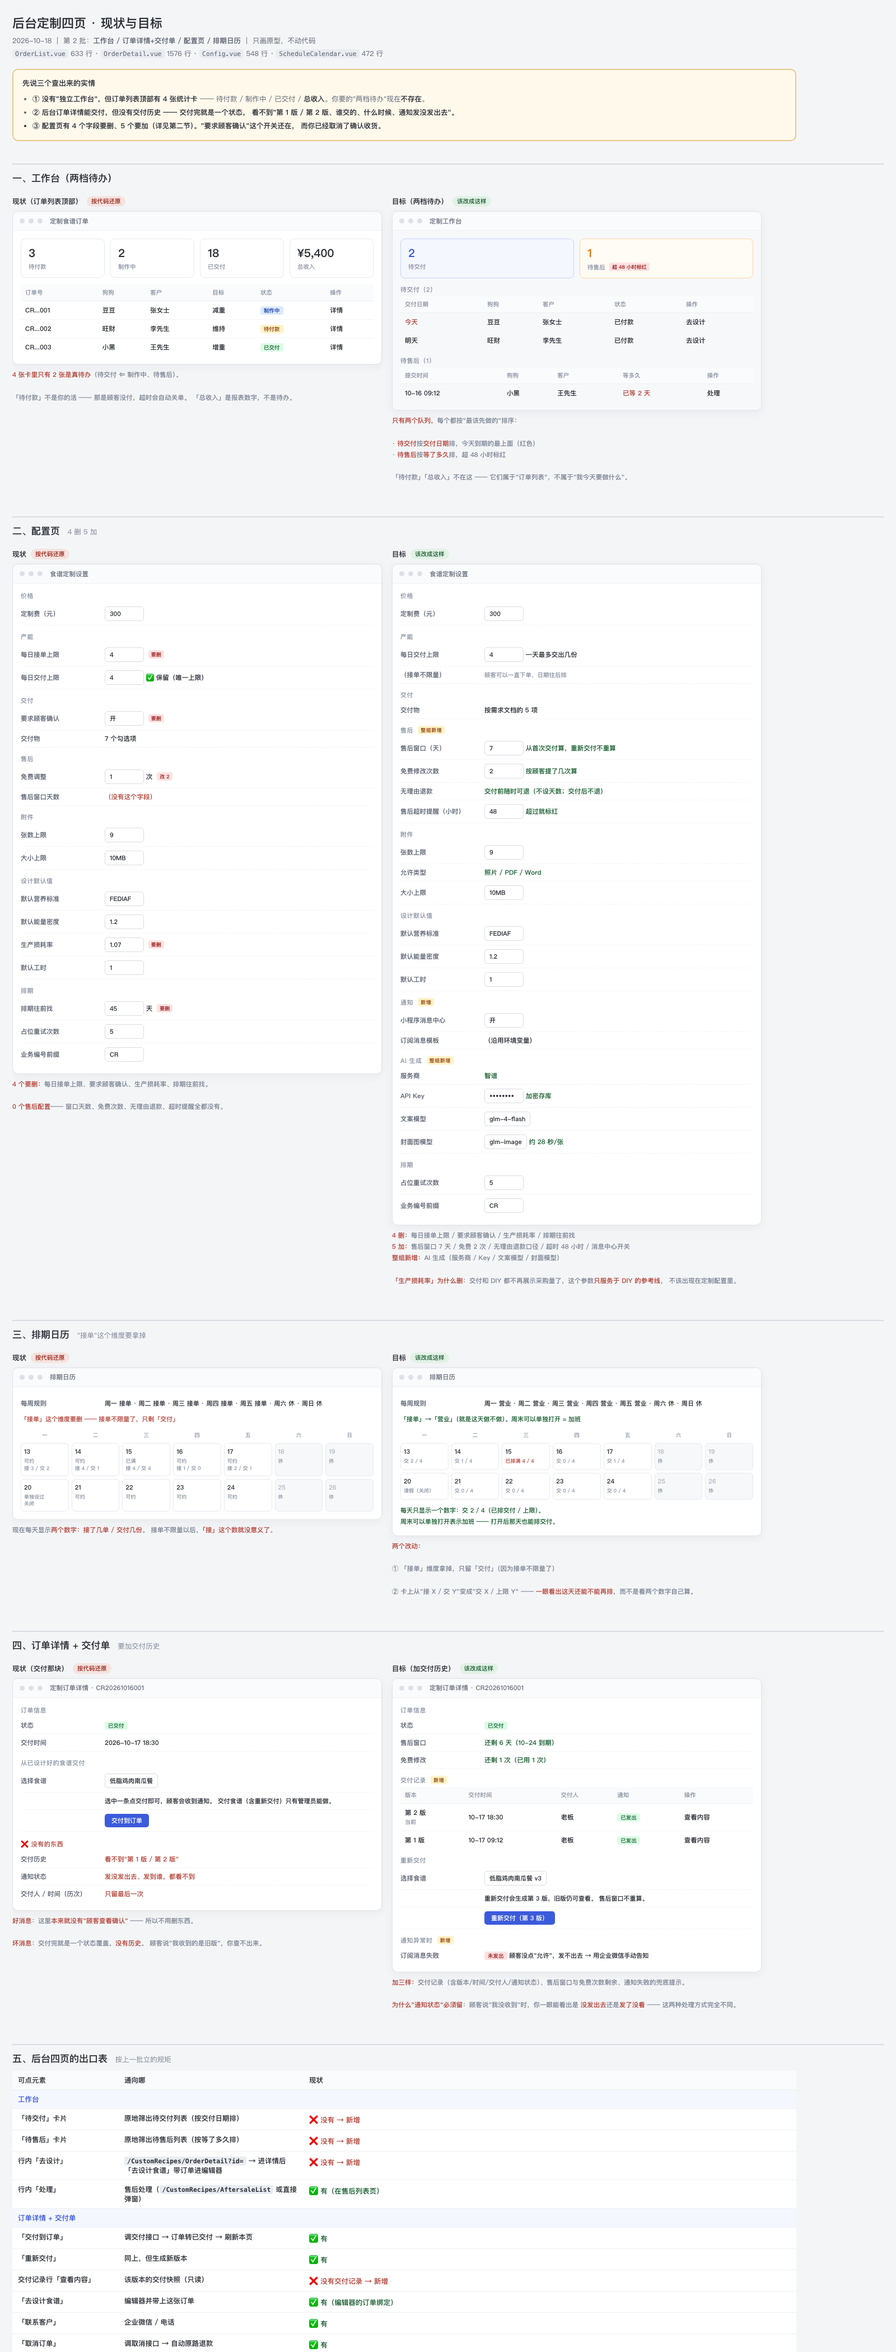
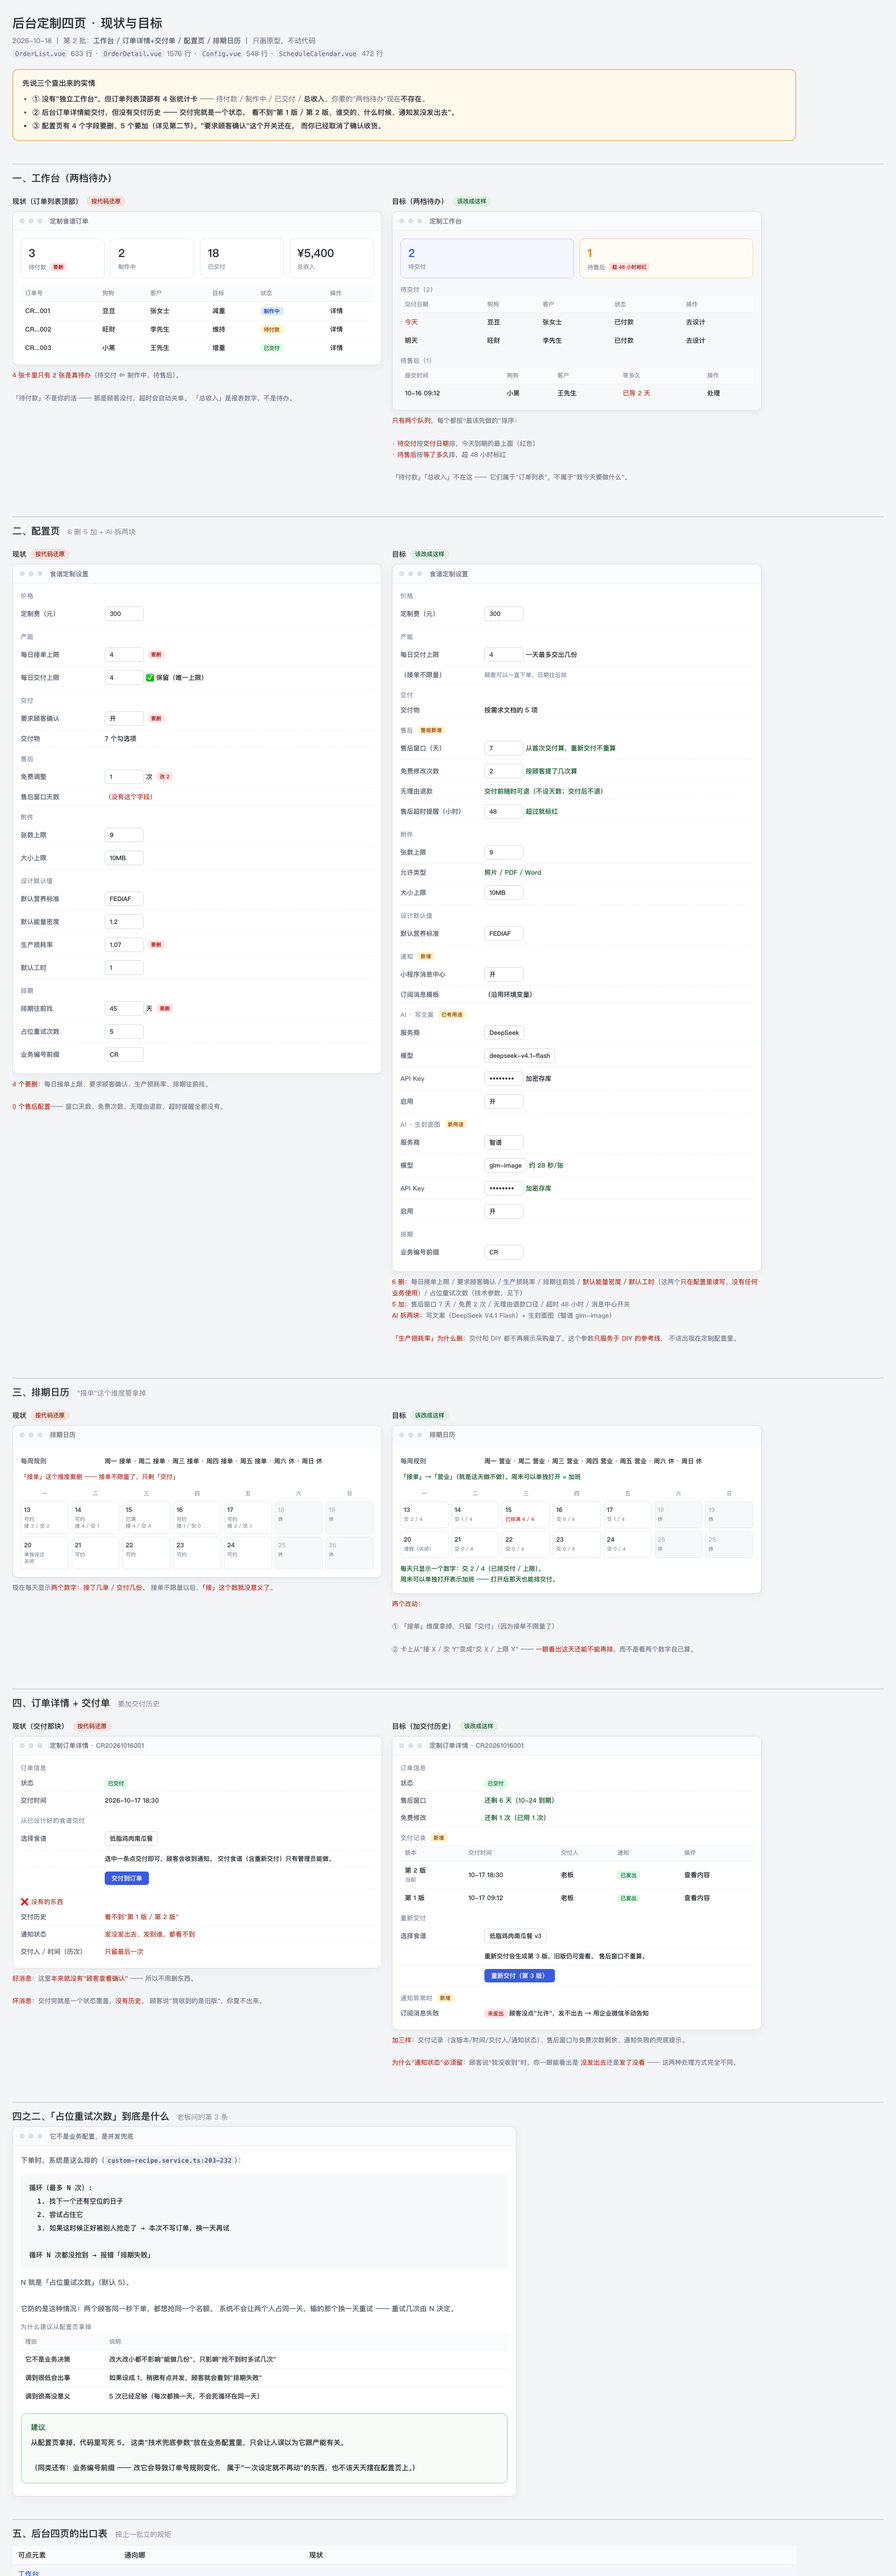
docs: 后台四页按老板 3 条更新
## ① 待付款卡删掉

工作台只留待交付 / 待售后两档。

## ② 配置页再删两个 + AI 拆两块

**删「默认能量密度」「默认工时」** —— 查了，这两个字段
**只在配置里读写，没有任何业务代码使用**（grep 全后端，除了 config.service 自己，0 处引用）。

**AI 拆成两块：**
- 写文案 → **DeepSeek V4.1 Flash**
- 生封面图 → **智谱 glm-image**

查了 `AgentProviderConfig` 表：`purpose` 是**自由字符串**、`@@unique([purpose, provider])`。
现有 4 条记录里**已经有 `RECIPE_COPYWRITING`**（写文案，现在用的 deepseek-v4-pro）。

**所以架构已经支持** —— 加一种用途只需加一条记录，**不用改表**：
- 文案：改 `RECIPE_COPYWRITING` 的 model
- 生图：新增一条 `RECIPE_COVER_IMAGE`，provider=ZHIPU

## ③ 解释了「占位重试次数」

它不是业务配置，是**并发兜底**：两个顾客同一秒抢同一个名额时，
输的那个换一天重试，最多重试几次。

建议**从配置页拿掉，写死 5**：
- 调低会出事（设 1 的话稍有并发就"排期失败"）
- 调高没意义（5 次够了）
- 它在业务配置里会让人误以为跟产能有关

顺带指出「业务编号前缀」也属于同类（一次设定就不再动）。

## 配置页现在是 6 删 5 加 + AI 两组

diff --git a/docs/prototypes/2026-10-18-admin-pages-refactor.html b/docs/prototypes/2026-10-18-admin-pages-refactor.html
@@ -123,7 +123,7 @@
       <div class="win__body">
 
         <div class="stat-row">
-          <div class="stat"><div class="stat__v">3</div><div class="stat__l">待付款</div></div>
+          <div class="stat"><div class="stat__v">3</div><div class="stat__l">待付款 <span class="mark mark--fix">要删</span></div></div>
           <div class="stat"><div class="stat__v">2</div><div class="stat__l">制作中</div></div>
           <div class="stat"><div class="stat__v">18</div><div class="stat__l">已交付</div></div>
           <div class="stat"><div class="stat__v">¥5,400</div><div class="stat__l">总收入</div></div>
@@ -201,7 +201,7 @@
 </div>
 
 <!-- ================================================================ -->
-<h2>二、配置页 <span>4 删 5 加</span></h2>
+<h2>二、配置页 <span>6 删 5 加 + AI 拆两块</span></h2>
 
 <div class="row">
 
@@ -279,31 +279,36 @@
 
         <div class="grp">设计默认值</div>
         <div class="field"><span class="field__l">默认营养标准</span><span class="field__v"><span class="input">FEDIAF</span></span></div>
-        <div class="field"><span class="field__l">默认能量密度</span><span class="field__v"><span class="input">1.2</span></span></div>
-        <div class="field"><span class="field__l">默认工时</span><span class="field__v"><span class="input">1</span></span></div>
 
         <div class="grp">通知 <span class="mark mark--add">新增</span></div>
         <div class="field"><span class="field__l">小程序消息中心</span><span class="field__v field__v--new"><span class="input">开</span></span></div>
         <div class="field"><span class="field__l">订阅消息模板</span><span class="field__v">（沿用环境变量）</span></div>
 
-        <div class="grp">AI 生成 <span class="mark mark--add">整组新增</span></div>
-        <div class="field"><span class="field__l">服务商</span><span class="field__v field__v--new">智谱</span></div>
+        <div class="grp">AI · 写文案 <span class="mark mark--add">已有用途</span></div>
+        <div class="field"><span class="field__l">服务商</span><span class="field__v"><span class="input">DeepSeek</span></span></div>
+        <div class="field"><span class="field__l">模型</span><span class="field__v field__v--new"><span class="input">deepseek-v4.1-flash</span></span></div>
+        <div class="field"><span class="field__l">API Key</span><span class="field__v"><span class="input">••••••••</span> 加密存库</span></div>
+        <div class="field"><span class="field__l">启用</span><span class="field__v"><span class="input">开</span></span></div>
+
+        <div class="grp">AI · 生封面图 <span class="mark mark--add">新用途</span></div>
+        <div class="field"><span class="field__l">服务商</span><span class="field__v field__v--new"><span class="input">智谱</span></span></div>
+        <div class="field"><span class="field__l">模型</span><span class="field__v field__v--new"><span class="input">glm-image</span> 约 28 秒/张</span></div>
         <div class="field"><span class="field__l">API Key</span><span class="field__v field__v--new"><span class="input">••••••••</span> 加密存库</span></div>
-        <div class="field"><span class="field__l">文案模型</span><span class="field__v field__v--new"><span class="input">glm-4-flash</span></span></div>
-        <div class="field"><span class="field__l">封面图模型</span><span class="field__v field__v--new"><span class="input">glm-image</span> 约 28 秒/张</span></div>
+        <div class="field"><span class="field__l">启用</span><span class="field__v field__v--new"><span class="input">开</span></span></div>
 
         <div class="grp">排期</div>
-        <div class="field"><span class="field__l">占位重试次数</span><span class="field__v"><span class="input">5</span></span></div>
         <div class="field"><span class="field__l">业务编号前缀</span><span class="field__v"><span class="input">CR</span></span></div>
 
       </div>
     </div>
     <div class="col__note">
-      <b>4 删：</b>每日接单上限 / 要求顾客确认 / 生产损耗率 / 排期往前找
+      <b>6 删：</b>每日接单上限 / 要求顾客确认 / 生产损耗率 / 排期往前找 /
+      <b>默认能量密度 / 默认工时</b>（这两个<b>只在配置里读写、没有任何业务使用</b>）/
+      占位重试次数（技术参数，见下）
       <br />
       <b>5 加：</b>售后窗口 7 天 / 免费 2 次 / 无理由退款口径 / 超时 48 小时 / 消息中心开关
       <br />
-      <b>整组新增：</b>AI 生成（服务商 / Key / 文案模型 / 封面模型）
+      <b>AI 拆两块：</b>写文案（DeepSeek V4.1 Flash）+ 生封面图（智谱 glm-image）
       <br /><br />
       <b>「生产损耗率」为什么删</b>：交付和 DIY 都不再展示采购量了，这个参数<b>只服务于 DIY 的参考线</b>，
       不该出现在定制配置里。
@@ -538,6 +543,54 @@
 </div>
 
 <!-- ================================================================ -->
+<h2>四之二、「占位重试次数」到底是什么 <span>老板问的第 3 条</span></h2>
+
+<div class="win" style="max-width:900px">
+  <div class="win__bar"><span class="win__dot"></span><span class="win__dot"></span><span class="win__dot"></span><span class="win__t">它不是业务配置，是并发兜底</span></div>
+  <div class="win__body">
+
+    <div class="sub" style="font-size:12.5px;line-height:1.9">
+      下单时，系统是这么排的（<code>custom-recipe.service.ts:203-232</code>）：
+    </div>
+
+    <div style="background:#F7F8FA;border-radius:8px;padding:13px 15px;margin:12px 0;font-size:12px;line-height:2;font-family:ui-monospace,Menlo,monospace">
+      循环（最多 <b>N</b> 次）:<br />
+      &nbsp;&nbsp;1. 找下一个还有空位的日子<br />
+      &nbsp;&nbsp;2. 尝试占住它<br />
+      &nbsp;&nbsp;3. <b>如果这时候正好被别人抢走了</b> → 本次不写订单，换一天再试<br />
+      <br />
+      循环 N 次都没抢到 → 报错「排期失败」
+    </div>
+
+    <div class="sub" style="font-size:12.5px;line-height:1.9">
+      <b>N 就是「占位重试次数」</b>（默认 5）。
+      <br /><br />
+      它防的是这种情况：<b>两个顾客同一秒下单，都想抢同一个名额</b>。
+      系统不会让两个人占同一天，输的那个换一天重试 —— 重试几次由 N 决定。
+    </div>
+
+    <div class="grp">为什么建议从配置页拿掉</div>
+    <table class="tbl">
+      <tr><th style="width:150px">理由</th><th>说明</th></tr>
+      <tr><td>它不是业务决策</td><td>改大改小都不影响"能做几份"，只影响"抢不到时多试几次"</td></tr>
+      <tr><td>调到很低会出事</td><td>如果设成 1，稍微有点并发，顾客就会看到"排期失败"</td></tr>
+      <tr><td>调到很高没意义</td><td>5 次已经足够（每次都换一天，不会死循环在同一天）</td></tr>
+    </table>
+
+    <div class="banner" style="margin-top:14px;border-color:#CFE3D5;background:#F7FBF8">
+      <div class="banner__t" style="color:#1D6034">建议</div>
+      <div style="font-size:12.5px;line-height:1.8;color:#2B2F36">
+        <b>从配置页拿掉，代码里写死 5。</b>
+        这类"技术兜底参数"放在业务配置里，只会让人误以为它跟产能有关。
+        <br /><br />
+        （同类还有：<b>业务编号前缀</b> —— 改它会导致订单号规则变化，
+        属于"一次设定就不再动"的东西，也不该天天摆在配置页上。）
+      </div>
+    </div>
+
+  </div>
+</div>
+
 <h2>五、后台四页的出口表 <span>按上一批立的规矩</span></h2>
 <table class="diff">
   <tr><th style="width:190px">可点元素</th><th style="width:330px">通向哪</th><th>现状</th></tr>
@@ -586,12 +639,19 @@
     <td>待交付按交付日期排（今天到期标红）；待售后按等了多久排（超 48 小时标红）</td></tr>
 
   <tr><td rowspan="3"><b>配置页</b></td>
-    <td class="del" style="font-weight:700">删 4 个</td><td>每日接单上限 / 要求顾客确认 / 生产损耗率 / 排期往前找</td>
-    <td>接单不限量、取消确认收货、不再给采购量、排期不设上限</td></tr>
+    <td class="del" style="font-weight:700">删 6 个</td>
+    <td>每日接单上限 / 要求顾客确认 / 生产损耗率 / 排期往前找 /
+      <b>默认能量密度 / 默认工时</b> / 占位重试次数</td>
+    <td>前四个是策略变了；<b>中间两个「只在配置里读写、没有任何业务使用」</b>；
+      最后一个是技术参数（建议写死 5）</td></tr>
   <tr><td class="new" style="font-weight:700">加 5 个</td><td>售后窗口 7 天 / 免费 2 次 / 无理由退款口径 / 超时 48 小时 / 消息中心开关</td>
     <td>现在售后配置<b>一个都没有</b></td></tr>
-  <tr><td class="new" style="font-weight:700">加一组</td><td>AI 生成（服务商 / Key / 文案模型 / 封面模型）</td>
-    <td>Key 加密存库，不写进配置文件</td></tr>
+  <tr><td class="new" style="font-weight:700">加两组</td>
+    <td>AI · 写文案（<b>DeepSeek V4.1 Flash</b>）<br />AI · 生封面图（<b>智谱 glm-image</b>）</td>
+    <td><b>架构已支持</b>：<code>AgentProviderConfig</code> 的 <code>purpose</code> 是自由字符串、
+      <code>unique(purpose, provider)</code> —— <b>加一种用途只需加一条记录，不用改表</b>。<br />
+      现有 4 条里已经有 <code>RECIPE_COPYWRITING</code>（写文案），只需改它的 model；
+      生图要新增一个 <code>RECIPE_COVER_IMAGE</code></td></tr>
 
   <tr><td rowspan="2"><b>排期日历</b></td>
     <td class="del" style="font-weight:700">删</td><td>「接单」维度</td>
